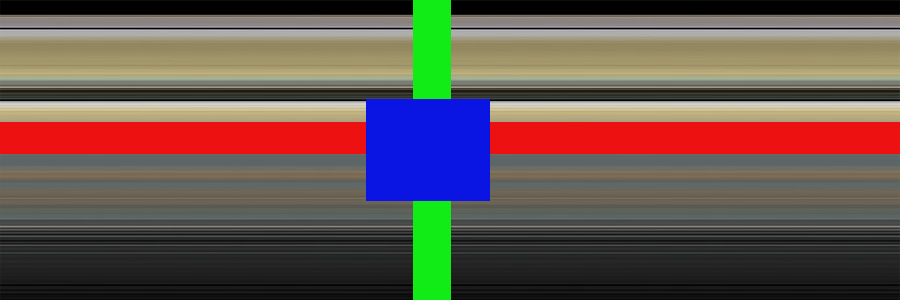
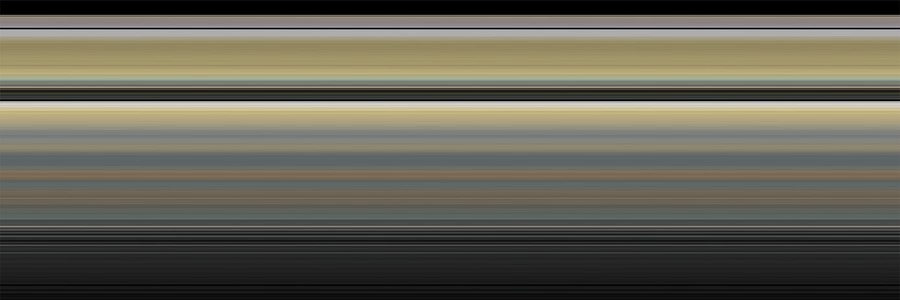
rings as torus

Changed region(s): [[0.0, 0.0, 1.0, 1.0]]

diff --git a/js/orbit/scenario/CommonCelestialBodies.js b/js/orbit/scenario/CommonCelestialBodies.js
@@ -9,170 +9,153 @@ define(
 
 		var common = {
 			sun : {
-					mass : 1.9891e30,
-					radius : 6.96342e5,
-					color : '#ffff00',
-					map : 'img/sunmap.jpg',
-					k : 0.01720209895 //gravitational constant (μ)
+				mass : 1.9891e30,
+				radius : 6.96342e5,
+				color : '#ffff00',
+				map : 'img/sunmap.jpg',
+				k : 0.01720209895 //gravitational constant (μ)
+			},
+			mercury : {
+				mass : 3.3022e23,
+				radius:2439,
+				color : '#cc9900',
+				map : 'img/mercurymap.jpg',
+				orbit : { 
+					base : {a : 0.38709927 * ns.AU ,  e : 0.20563593, i: 7.00497902, l : 252.25032350, lp : 77.45779628, o : 48.33076593},
+					cy : {a : 0.00000037 * ns.AU ,  e : 0.00001906, i: -0.00594749, l : 149472.67411175, lp : 0.16047689, o : -0.12534081}
+				}
+			},
+			venus : {
+				mass : 4.868e24,
+				radius : 6051,
+				color : '#00cc99',
+				map : 'img/venusmap.jpg',
+				orbit : {
+					base : {a : 0.72333566 * ns.AU ,  e : 0.00677672, i: 3.39467605, l : 181.97909950, lp : 131.60246718, o : 76.67984255},
+					cy : {a : 0.00000390 * ns.AU ,  e : -0.00004107, i: -0.00078890, l : 58517.81538729, lp : 0.00268329, o : -0.27769418}
+				}
+			},
+			earth : {
+				mass : 5.9736e24,
+				radius : 6378.1,
+				color : '#1F7CDA',
+				map : 'img/earthmap1k.jpg',
+				sideralDay : ns.SIDERAL_DAY,
+				tilt : 23+(26/60)+(21/3600) ,
+				orbit : {
+					base : {a : 1.00000261 * ns.AU, e : 0.01671123, i : -0.00001531, l : 100.46457166, lp : 102.93768193, o : 0.0},
+					cy : {a : 0.00000562 * ns.AU, e : -0.00004392, i : -0.01294668, l : 35999.37244981, lp : 0.32327364, o : 0.0}
+				}
+			},
+			mars : {
+				mass : 6.4185e23,
+				radius : 3376,
+				color : '#ff3300',
+				map : 'img/mars_1k_color.jpg',
+				sideralDay : 1.025957 * ns.DAY,
+				orbit : {
+					base : {a : 1.52371034 * ns.AU ,  e : 0.09339410, i: 1.84969142, l : -4.55343205, lp : -23.94362959, o : 49.55953891},
+					cy : {a : 0.00001847 * ns.AU ,  e : 0.00007882, i: -0.00813131, l : 19140.30268499, lp : 0.44441088, o : -0.29257343}
+				}
+			}
+			,
+			jupiter : {
+				mass : 1.8986e27,
+				radius : 71492,
+				color : '#ff9932',
+				map : 'img/jupitermap.jpg',
+				orbit : {
+					base : {a : 5.20288700 * ns.AU ,  e : 0.04838624, i: 1.30439695, l : 34.39644051, lp : 14.72847983, o : 100.47390909},
+					cy : {a : -0.00011607 * ns.AU ,  e : -0.00013253, i: -0.00183714, l : 3034.74612775, lp : 0.21252668, o : 0.20469106}
+				}
+			},
+			saturn : {
+				mass : 5.6846e26,
+				radius : 60268,
+				color : '#ffcc99',
+				map : 'img/saturnmap.jpg',
+				ring : {
+					innerRadius : 74500,
+					outerRadius : 117580,
+					map : 'img/saturnrings.jpg'
 				},
-				mercury : {
-					mass : 3.3022e23,
-					radius:2439,
-					color : '#cc9900',
-					map : 'img/mercurymap.jpg',
-					orbit : { 
-						base : {a : 0.38709927 * ns.AU ,  e : 0.20563593, i: 7.00497902, l : 252.25032350, lp : 77.45779628, o : 48.33076593},
-						cy : {a : 0.00000037 * ns.AU ,  e : 0.00001906, i: -0.00594749, l : 149472.67411175, lp : 0.16047689, o : -0.12534081}
-					}
-				},
-				venus : {
-					mass : 4.868e24,
-					radius : 6051,
-					color : '#00cc99',
-					map : 'img/venusmap.jpg',
-					orbit : {
-						base : {a : 0.72333566 * ns.AU ,  e : 0.00677672, i: 3.39467605, l : 181.97909950, lp : 131.60246718, o : 76.67984255},
-						cy : {a : 0.00000390 * ns.AU ,  e : -0.00004107, i: -0.00078890, l : 58517.81538729, lp : 0.00268329, o : -0.27769418}
-					}
-				},
-				earth : {
-					mass : 5.9736e24,
-					radius : 6378.1,
-					color : '#1F7CDA',
-					map : 'img/earthmap1k.jpg',
-					sideralDay : ns.SIDERAL_DAY,
-					tilt : 23+(26/60)+(21/3600) ,
-					ring : {
-						innerRadius : 7000,
-						outerRadius : 12000,
-						map : 'img/saturnrings.jpg'
+				orbit : {
+					base : {a : 9.53667594 * ns.AU ,  e : 0.05386179, i: 2.48599187, l : 49.95424423, lp : 92.59887831, o : 113.66242448},
+					cy : {a : -0.00125060 * ns.AU ,  e : -0.00050991, i: 0.00193609, l : 1222.49362201, lp : -0.41897216, o : -0.28867794}
+				}
+			},
+			uranus : {
+				mass : 8.6810e25,
+				radius : 25559,
+				color : '#99ccff',
+				map : 'img/uranusmap.jpg',
+				orbit : {
+					base : {a : 19.18916464 * ns.AU ,  e : 0.04725744, i: 0.77263783, l : 313.23810451, lp : 170.95427630, o : 74.01692503},
+					cy : {a : -0.00196176 * ns.AU ,  e : -0.00004397, i: -0.00242939, l : 428.48202785, lp : 0.40805281, o : 0.04240589}
+				}
+			},
+			neptune : {
+				mass : 1.0243e26,
+				radius : 24764,
+				color : '#3299ff',
+				map : 'img/neptunemap.jpg',
+				orbit : {
+					base : {a : 30.06992276  * ns.AU,  e : 0.00859048, i: 1.77004347, l : -55.12002969, lp : 44.96476227, o : 131.78422574},
+					cy : {a : 0.00026291  * ns.AU,  e : 0.00005105, i: 0.00035372, l : 218.45945325, lp : -0.32241464, o : -0.00508664}
+				}
+			},
+			pluto : {
+				mass : 1.305e22+1.52e21,
+				radius : 1153,
+				color : '#aaaaaa',
+				map : 'img/plutomap1k.jpg',
+				orbit : {
+					base : {a : 39.48211675 * ns.AU ,  e : 0.24882730, i: 17.14001206, l : 238.92903833, lp : 224.06891629, o : 110.30393684},
+					cy : {a : -0.00031596 * ns.AU ,  e : 0.00005170, i: 0.00004818, l : 145.20780515, lp : -0.04062942, o : -0.01183482}
+				}
+			},
+			halley : {
+				mass : 2.2e14,
+				radius : 50,
+				color : '#ffffff',
+				orbit : {
+					base : {a : 17.83414429 * ns.AU ,  e : 0.967142908, i: 162.262691, M : 360 * (438393600 / (75.1 * ns.YEAR * ns.DAY)), w : 111.332485, o : 58.420081},
+					day : {a : 0 ,  e : 0, i: 0, M : (360 / (75.1 * 365.25) ), w : 0, o : 0}
+				}
+			},
+			moon : {
+				mass : 7.3477e22,
+				radius : 1738.1,
+				color : "#ffffff",
+				map : 'img/moonmap1k.jpg',
+				//map : 'img/moonmap1k_stripe.jpg',
+				sideralDay : (27.321582 * ns.DAY) + 11000,
+				tilt : 1.5424,
+				fov : 1,
+				relativeTo : 'earth',
+				osculatingOrbit : MoonOsculating,
+				orbit: {
+					base : {
+						a : 384400,
+						e : 0.0554,
+						w : 318.15,
+						M : 135.27,
+						i : 5.16,
+						o : 125.08
 					},
-					orbit : {
-						base : {a : 1.00000261 * ns.AU, e : 0.01671123, i : -0.00001531, l : 100.46457166, lp : 102.93768193, o : 0.0},
-		          		cy : {a : 0.00000562 * ns.AU, e : -0.00004392, i : -0.01294668, l : 35999.37244981, lp : 0.32327364, o : 0.0}
-					}
-				},
-				mars : {
-					mass : 6.4185e23,
-					radius : 3376,
-					color : '#ff3300',
-					map : 'img/mars_1k_color.jpg',
-					sideralDay : 1.025957 * ns.DAY,
-					orbit : {
-						base : {a : 1.52371034 * ns.AU ,  e : 0.09339410, i: 1.84969142, l : -4.55343205, lp : -23.94362959, o : 49.55953891},
-						cy : {a : 0.00001847 * ns.AU ,  e : 0.00007882, i: -0.00813131, l : 19140.30268499, lp : 0.44441088, o : -0.29257343}
-					}
-				}
-				,
-				jupiter : {
-					mass : 1.8986e27,
-					radius : 71492,
-					color : '#ff9932',
-					map : 'img/jupitermap.jpg',
-					orbit : {
-						base : {a : 5.20288700 * ns.AU ,  e : 0.04838624, i: 1.30439695, l : 34.39644051, lp : 14.72847983, o : 100.47390909},
-						cy : {a : -0.00011607 * ns.AU ,  e : -0.00013253, i: -0.00183714, l : 3034.74612775, lp : 0.21252668, o : 0.20469106}
-					}
-				},
-				saturn : {
-					mass : 5.6846e26,
-					radius : 60268,
-					color : '#ffcc99',
-					map : 'img/saturnmap.jpg',
-					ring : {
-						innerRadius : 74500,
-						outerRadius : 117580,
-						map : 'img/saturnring.jpg'
-					},
-					orbit : {
-						base : {a : 9.53667594 * ns.AU ,  e : 0.05386179, i: 2.48599187, l : 49.95424423, lp : 92.59887831, o : 113.66242448},
-						cy : {a : -0.00125060 * ns.AU ,  e : -0.00050991, i: 0.00193609, l : 1222.49362201, lp : -0.41897216, o : -0.28867794}
-					}
-				},
-				uranus : {
-					mass : 8.6810e25,
-					radius : 25559,
-					color : '#99ccff',
-					map : 'img/uranusmap.jpg',
-					orbit : {
-						base : {a : 19.18916464 * ns.AU ,  e : 0.04725744, i: 0.77263783, l : 313.23810451, lp : 170.95427630, o : 74.01692503},
-						cy : {a : -0.00196176 * ns.AU ,  e : -0.00004397, i: -0.00242939, l : 428.48202785, lp : 0.40805281, o : 0.04240589}
-					}
-				},
-				neptune : {
-					mass : 1.0243e26,
-					radius : 24764,
-					color : '#3299ff',
-					map : 'img/neptunemap.jpg',
-					orbit : {
-						base : {a : 30.06992276  * ns.AU,  e : 0.00859048, i: 1.77004347, l : -55.12002969, lp : 44.96476227, o : 131.78422574},
-						cy : {a : 0.00026291  * ns.AU,  e : 0.00005105, i: 0.00035372, l : 218.45945325, lp : -0.32241464, o : -0.00508664}
-					}
-				},
-				pluto : {
-					mass : 1.305e22+1.52e21,
-					radius : 1153,
-					color : '#aaaaaa',
-					map : 'img/plutomap1k.jpg',
-					orbit : {
-						base : {a : 39.48211675 * ns.AU ,  e : 0.24882730, i: 17.14001206, l : 238.92903833, lp : 224.06891629, o : 110.30393684},
-						cy : {a : -0.00031596 * ns.AU ,  e : 0.00005170, i: 0.00004818, l : 145.20780515, lp : -0.04062942, o : -0.01183482}
-					}
-				}
-				,
-				halley : {
-					mass : 2.2e14,
-					radius : 50,
-					color : '#ffffff',
-					orbit : {
-						base : {a : 17.83414429 * ns.AU ,  e : 0.967142908, i: 162.262691, M : 360 * (438393600 / (75.1 * ns.YEAR * ns.DAY)), w : 111.332485, o : 58.420081},
-						day : {a : 0 ,  e : 0, i: 0, M : (360 / (75.1 * 365.25) ), w : 0, o : 0}
-					}
-				},
-				moon : {
-					mass : 7.3477e22,
-					radius : 1738.1,
-					color : "#ffffff",
-					map : 'img/moonmap1k.jpg',
-					//map : 'img/moonmap1k_stripe.jpg',
-					sideralDay : (27.321582 * ns.DAY) + 11000,
-					tilt : 1.5424,
-					fov : 1,
-					relativeTo : 'earth',
-					osculatingOrbit : MoonOsculating,
-					orbit: {
-						base : {
-							
-							a : 384400,
-							e : 0.0554,
-							w : 318.15,
-							M : 135.27,
-							i : 5.16,
-							o : 125.08
-						},
-						day : {
-							a : 0,
-							e : 0,
-							i : 0,
-							M : 13.176358,//360 / 27.321582,
-							w : (360 / 5.997) / 365.25,
-							o : (360 / 18.600) / 365.25
-						}	
-					}/**/
-				}
+					day : {
+						a : 0,
+						e : 0,
+						i : 0,
+						M : 13.176358,//360 / 27.321582,
+						w : (360 / 5.997) / 365.25,
+						o : (360 / 18.600) / 365.25
+					}	
+				}/**/
+			}
 		};
-		/*
-		var osculatingMoon = $.extend({}, common.moon, {, map:'img/venusmap.jpg'});
-		common.osculatingMoon = osculatingMoon;/**/
 
 		return common;
 
 	}
 );
-
-
-/*
-Sat.	a	e	w	M	i	node	n	P	Pw	Pnode	Ref.
-(km)		(deg)	(deg)	(deg)	(deg)	(deg/day)	(days)	(yr)	(yr)	
-Moon	384400.	0.0554	318.15	135.27	5.16	125.08	13.176358	27.322	5.997	18.600	1
-/**/

diff --git a/js/orbit/graphics3d/Body.js b/js/orbit/graphics3d/Body.js
@@ -58,6 +58,7 @@ define(
 			getPlanet : function() {
 				return this.planet;
 			},
+
 			getTracer : function() {
 				return this.tracer && this.tracer.getDisplayObject();
 			},
@@ -96,22 +97,18 @@ define(
 						((this.celestial.ring.innerRadius * ns.KM) / this.nmPerPix),
 						((this.celestial.ring.outerRadius * ns.KM) / this.nmPerPix)
 					];
-					console.log(ringSize, radius);
-
+					
 					var ringMap = THREE.ImageUtils.loadTexture( this.celestial.ring.map );
-					//ringMap.wrapS = ringMap.wrapT = THREE.RepeatWrapping;
-					ringMap.anisotropy = 16;
-
-					var ringGeometry = new THREE.RingGeometry( ringSize[0], ringSize[1], 40 );
-					var ringMaterial = new THREE.MeshLambertMaterial( {
-						map : ringMap,
-						side: THREE.DoubleSide 
-					});
-					var ring = new THREE.Mesh( ringGeometry, ringMaterial );
-					ring.position.set( 0, 0, 0 );
-					ring.rotation.x = - Math.PI / 2;
+					var ringMaterial = new THREE.MeshLambertMaterial({
+	                    map: ringMap,
+	                    transparent: true
+	                    //opacity: 0.6
+	                });
+					var ringGeometry = new THREE.TorusGeometry(ringSize[1], ringSize[1] - ringSize[0], 2, 40, ns.CIRCLE);
+	               
+	                var ring = new THREE.Mesh(ringGeometry, ringMaterial);
+	                ring.rotation.x = - Math.PI / 3;
 					this.planet.add(ring);
-					ring.rotation.x = Math.PI / 3;
 				}
 				
 				var tilt = Math.PI / 2;

diff --git a/js/orbit/Universe.js b/js/orbit/Universe.js
@@ -30,8 +30,8 @@ define(
 					this.tick();
 				}.bind(this));
 
-				var scenario = ScenarioLoader.get('EarthMoon');
-				//var scenario = ScenarioLoader.get('SolarSystem');
+				//var scenario = ScenarioLoader.get('EarthMoon');
+				var scenario = ScenarioLoader.get('SolarSystem');
 				//var scenario = ScenarioLoader.get('CentralSolarSystem');
 				//var scenario = ScenarioLoader.get('Artificial');
 				this.createBodies(scenario);

diff --git a/js/orbit/graphics3d/Scene.js b/js/orbit/graphics3d/Scene.js
@@ -142,7 +142,7 @@ define(
 
 			onMouseWheel : function(event, delta, deltaX, deltaY) {
 				delta = delta / Math.abs(delta);
-				this.camera.fov += 0.3 * delta;
+				this.camera.fov += this.camera.fov * 0.1 * delta;
 			},
 
 			drawAxis : function(){

diff --git a/js/orbit/scenario/SolarSystem.js b/js/orbit/scenario/SolarSystem.js
@@ -29,7 +29,7 @@ define(
 				'pluto',
 				'halley'
 			],
-			secondsPerTick : 3600 * 12,//3600 * 24 * 2,
+			secondsPerTick : 3600 * 12,
 			calculationsPerTick : 500,
 			calculatePerturbations : true,
 			fov : 5

diff --git a/js/orbit/scenario/EarthMoon.js b/js/orbit/scenario/EarthMoon.js
@@ -29,11 +29,10 @@ define(
 					}
 				}
 			},
-			secondsPerTick : 3600 ,
+			secondsPerTick : 3600,
 			calculationsPerTick : 1000,
 			calculatePerturbations : false,
 			fov: 3
-
 		};
 
 
